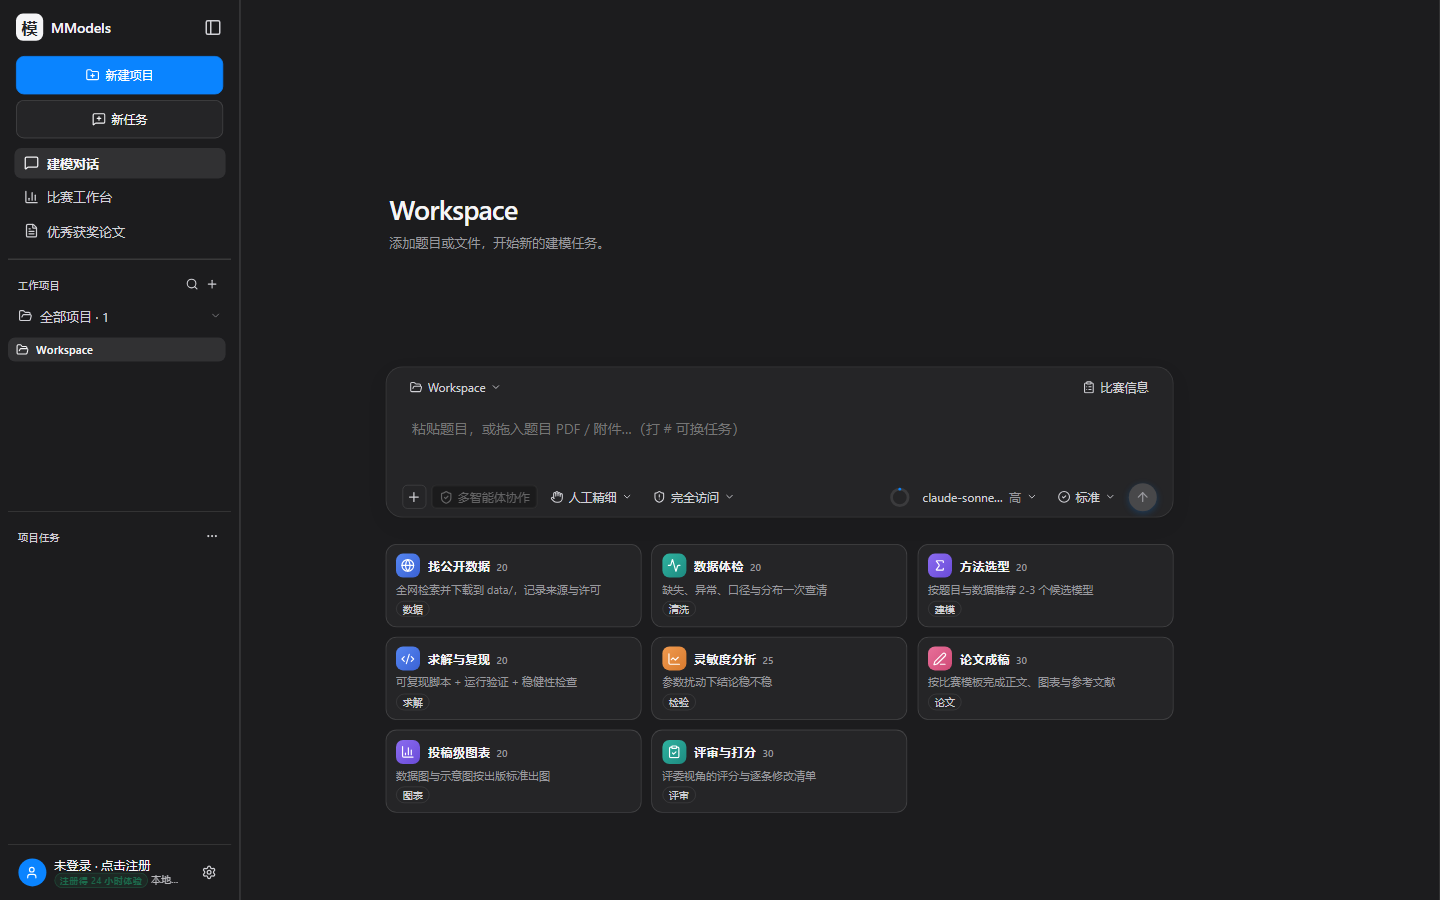
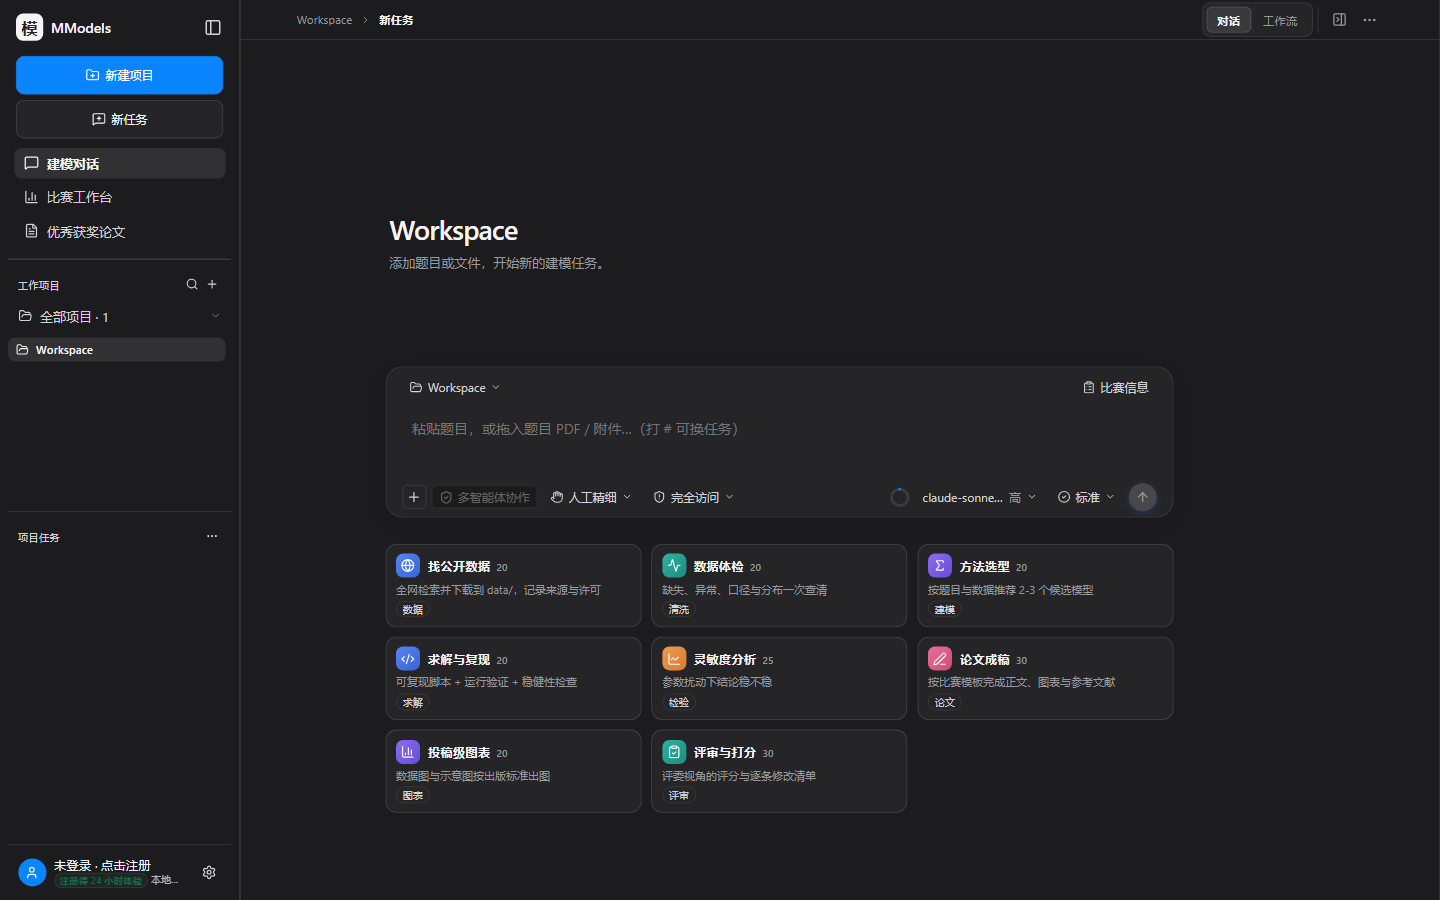
fix: restore chat switch and refine vip skill pricing

Changed region(s): [[0.25, 0.2178, 0.4062, 0.3111], [0.8125, 0.0, 0.9375, 0.0622], [0.2188, 0.0, 0.2812, 0.0311]]

diff --git a/src/renderer/src/pages/ChatPage.tsx b/src/renderer/src/pages/ChatPage.tsx
@@ -23,7 +23,7 @@
  */
 import { memo, useCallback, useEffect, useMemo, useRef, useState } from 'react';
 import type { ReactNode } from 'react';
-import type { ChatMessage, ContentBlock, InflightTurn, StreamEvent } from '@shared/types';
+import type { AccountStatusInfo, ChatMessage, ContentBlock, InflightTurn, StreamEvent } from '@shared/types';
 import { decideFollowUpAction, followUpHeadFor, readFollowUpBehavior, useApp } from '../store/app';
 import { latestTaskBlocks } from '../store/tasks';
 import {
@@ -37,7 +37,8 @@ import { DraftComposer } from '../components/DraftComposer';
 import { createComposerDraft } from '../store/composer-draft';
 import { withPendingMessage } from '../lib/optimistic-message';
 import { friendlyError } from '../lib/friendly-error';
-import { openMembership } from '../lib/membership-nav';
+import { onAccountStatus, openMembership } from '../lib/membership-nav';
+import { isPaidVip } from '../components/membership/membership-ui';
 import { ConfirmDialog } from '../components/ConfirmDialog';
 import { TaskProgressPanel } from '../components/TaskProgress';
 import { AgentCollaboration } from '../components/AgentCollaboration';
@@ -482,6 +483,25 @@ export function ChatPage({ actions, editorView = false }: { actions?: ReactNode;
   const activeSessionId = useApp((s) => s.activeSessionId);
   const newChatRequest = useApp((s) => s.newChatRequest);
   const settings = useApp((s) => s.settings);
+  const [membershipStatus, setMembershipStatus] = useState<AccountStatusInfo | null>(null);
+  const [membershipStatusLoaded, setMembershipStatusLoaded] = useState(false);
+  useEffect(() => {
+    let alive = true;
+    void window.mathmodel.account.status().then((next) => {
+      if (!alive) return;
+      setMembershipStatus(next);
+      setMembershipStatusLoaded(true);
+    }).catch(() => {
+      if (alive) setMembershipStatusLoaded(true);
+    });
+    const unsubscribe = onAccountStatus((next) => {
+      if (!alive || !next || typeof next !== 'object') return;
+      setMembershipStatus(next as AccountStatusInfo);
+      setMembershipStatusLoaded(true);
+    });
+    return () => { alive = false; unsubscribe(); };
+  }, []);
+  const homepagePricingIsPaidVip = membershipStatusLoaded && isPaidVip(membershipStatus);
   const createSession = useApp((s) => s.createSession);
   /** 快捷功能卡点击后在卡片下方展开的内联输入框内容（null = 收起）——2026-09-25 用户要求 */
   const [starterDraft, setStarterDraft] = useState<string | null>(null);
@@ -1414,7 +1434,9 @@ export function ChatPage({ actions, editorView = false }: { actions?: ReactNode;
                 </div>
 
                 <div className="starters" id="tour-examples">
-                  {STARTERS.map((s) => (
+                  {STARTERS.map((s) => {
+                    const starterCost = skillPointCost(s.skillId) ?? 10;
+                    return (
                     <button
                       key={s.title}
                       className={`starter starter-tint-${s.tint}${starterDraft !== null && starterDraft.startsWith(s.prompt.slice(0, 24)) ? ' is-active' : ''}`}
@@ -1428,11 +1450,11 @@ export function ChatPage({ actions, editorView = false }: { actions?: ReactNode;
                         <span className="starter-head-copy">
                           <span className="starter-title">{t(s.title)}</span>
                           <span
-                            className="starter-cost"
-                            title="选择后按该技能的单回合积分计费"
-                            aria-label={`${skillPointCost(s.skillId) ?? 10} 积分`}
+                            className={`starter-cost${homepagePricingIsPaidVip ? ' is-vip' : ''}`}
+                            title={homepagePricingIsPaidVip ? '卡密 VIP：该技能不限积分' : '选择后按该技能的单回合积分计费'}
+                            aria-label={homepagePricingIsPaidVip ? 'VIP无限' : `${starterCost} 积分`}
                           >
-                            {skillPointCost(s.skillId) ?? 10}
+                            {homepagePricingIsPaidVip ? 'VIP无限' : starterCost}
                           </span>
                         </span>
                       </span>
@@ -1445,7 +1467,8 @@ export function ChatPage({ actions, editorView = false }: { actions?: ReactNode;
                         ))}
                       </span>
                     </button>
-                  ))}
+                    );
+                  })}
                 </div>
 
                 {/* 点卡片 → 下方就地展开输入框（可改可发），比静默填进底部输入框更直观 */}

diff --git a/src/renderer/src/styles/pages.css b/src/renderer/src/styles/pages.css
@@ -2142,6 +2142,11 @@
   font-variant-numeric: tabular-nums;
   white-space: nowrap;
 }
+.starter-cost.is-vip {
+  color: #c49416;
+  font-weight: 650;
+  font-variant-numeric: normal;
+}
 
 /* ─────────────────────────────────────────────────────────────
  * 输入区（Composer）—— 遵循应用约定中的三层结构
@@ -2728,8 +2733,8 @@
   bottom: calc(100% + 6px);
   left: 8px;
   right: auto;
-  width: 300px;
-  max-height: 260px;
+  width: min(380px, calc(100vw - 24px));
+  max-height: min(340px, calc(100vh - 120px));
 }
 /* composer-box 默认 overflow:hidden（裁拖拽提示用），会把向上伸出的面板裁掉；
    面板存在时临时放开 —— Chromium 150 支持 :has() */
@@ -2737,8 +2742,8 @@
   overflow: visible;
 }
 .hash-pop .hash-pop-cmd {
-  flex: none;
-  max-width: 110px;
+  flex: 0 1 88px;
+  max-width: 88px;
   overflow: hidden;
   text-overflow: ellipsis;
   white-space: nowrap;
@@ -2755,20 +2760,40 @@
   gap: 1px;
 }
 .hash-pop .hash-pop-description {
-  max-width: 165px;
+  width: 100%;
+  max-width: none;
+  overflow: hidden;
+  text-overflow: ellipsis;
+  white-space: nowrap;
   color: var(--fg-muted);
   font-size: 10px;
   line-height: 1.25;
 }
 .hash-pop .hash-pop-cost {
-  flex: none;
-  border: 1px solid color-mix(in srgb, var(--accent) 28%, transparent);
-  border-radius: 999px;
-  padding: 1px 5px;
-  color: var(--accent);
+  flex: 0 0 auto;
+  min-width: 22px;
+  border: 0;
+  border-radius: 0;
+  padding: 0 2px;
+  color: var(--fg-muted);
   font-size: 10px;
   line-height: 1.35;
+  font-variant-numeric: tabular-nums;
+  text-align: center;
   white-space: nowrap;
+}
+.hash-pop .hash-pop-cost.is-vip {
+  min-width: 52px;
+  color: #c49416;
+  font-weight: 650;
+  font-variant-numeric: normal;
+}
+.hash-pop .cz-pop-item {
+  gap: 6px;
+  padding: 6px 8px;
+}
+.hash-pop .grow {
+  display: none;
 }
 
 /* ② 附件 chips */

diff --git a/src/renderer/src/styles/resizable-panels.css b/src/renderer/src/styles/resizable-panels.css
@@ -511,3 +511,57 @@
   .competition-shell .newchat { padding-block: 22px; }
   .competition-shell .msg-user .msg-body { max-width: 94%; }
 }
+
+/* ── 对话页顶部操作区回归保障 ────────────────────────────────
+ * 某些窗口宽度下，旧的 max-width/overflow 组合会把 ChatQuickBar 压成一条
+ * 空白竖带，连“对话 / 工作流”也看不见。这里把上下文条和操作组恢复成
+ * 明确的单行 flex 约束；窄屏仍由路径文本让位，而不是裁剪操作按钮。 */
+.competition-shell .chat-page-context {
+  position: relative;
+  display: flex;
+  align-items: center;
+  width: 100%;
+  box-sizing: border-box;
+  overflow: visible;
+}
+.competition-shell .chat-page-context-path {
+  flex: 1 1 auto;
+  min-width: 0;
+  overflow: hidden;
+}
+.competition-shell .chat-page-context-actions {
+  display: flex;
+  align-items: center;
+  justify-content: flex-end;
+  flex: 0 0 auto;
+  width: auto;
+  min-width: max-content;
+  max-width: none;
+  height: auto;
+  min-height: 0;
+  margin-left: auto;
+  overflow: visible;
+}
+.competition-shell .chat-page-context-actions > .chat-quickbar {
+  display: inline-flex;
+  align-items: center;
+  flex: 0 0 auto;
+  width: auto;
+  height: auto;
+  min-height: 0;
+  white-space: nowrap;
+  overflow: visible;
+}
+.competition-shell .chat-page-context-actions .chat-quickbar-view,
+.competition-shell .chat-page-context-actions .chat-quickbar-tools {
+  display: flex;
+  align-items: center;
+  flex: 0 0 auto;
+  width: auto;
+  height: auto;
+}
+.competition-shell .chat-page-context-actions .workflow-switch {
+  display: inline-flex;
+  visibility: visible;
+  opacity: 1;
+}

diff --git a/src/renderer/src/components/Composer.tsx b/src/renderer/src/components/Composer.tsx
@@ -560,6 +560,9 @@ export function Composer({
   const hashTaskDescription = (task: HashTask): string => task.description ?? tx(`composer.hashPalette.items.${task.id}Description`);
   const hashTaskCost = (task: HashTask): number | undefined =>
     task.skillId ? skillPointCost(task.skillId) : task.mode === 'chat' ? CHAT_POINT_COSTS.basic : undefined;
+  // 价格展示只服务于提示，不参与实际扣费；服务端仍会按技能白名单重新计算。
+  // 只有已兑换卡密的 VIP 才显示“VIP无限”，24 小时试用和免费账号仍显示小额数字。
+  const hashPricingIsPaidVip = membershipStatusLoaded && isPaidVip(membershipStatus);
   /** 选中一项：替换 `#token` 为插入文本；工作流项带上中文名让输入框可见（2026-09-26 用户要求） */
   const applyHashTask = (task: HashTask): void => {
     if (!hash) return;
@@ -1446,7 +1449,13 @@ export function Composer({
               </span>
               <span className="grow" />
               {hashTaskCost(it) ? (
-                <span className="hash-pop-cost">{hashTaskCost(it)} 积分 / 回合</span>
+                <span
+                  className={`hash-pop-cost${hashPricingIsPaidVip ? ' is-vip' : ''}`}
+                  title={hashPricingIsPaidVip ? '卡密 VIP：该技能不限积分' : '本技能单回合积分成本'}
+                  aria-label={hashPricingIsPaidVip ? 'VIP无限' : `${hashTaskCost(it)} 积分`}
+                >
+                  {hashPricingIsPaidVip ? 'VIP无限' : hashTaskCost(it)}
+                </span>
               ) : null}
               {it.insert ? (
                 <span className="cz-pop-hint hash-pop-cmd">{it.insert.trim()}</span>

diff --git a/src/renderer/src/pages/ChatPage.starters.test.ts b/src/renderer/src/pages/ChatPage.starters.test.ts
@@ -37,8 +37,17 @@ describe('空会话快捷卡片计费', () => {
 
   it('卡片只显示积分数字，完整说明放在提示信息中', () => {
     const source = readFileSync(resolve(process.cwd(), 'src/renderer/src/pages/ChatPage.tsx'), 'utf8');
-    expect(source).toContain('className="starter-cost"');
-    expect(source).toContain('aria-label={`${skillPointCost(s.skillId) ?? 10} 积分`}');
+    expect(source).toContain("className={`starter-cost${homepagePricingIsPaidVip ? ' is-vip' : ''}`}");
+    expect(source).toContain("aria-label={homepagePricingIsPaidVip ? 'VIP无限' : `${starterCost} 积分`}");
+    expect(source).toContain("homepagePricingIsPaidVip ? 'VIP无限' : starterCost");
     expect(source).not.toContain('积分/回合');
+  });
+
+  it('对话页右上角视图切换保留可见的单行操作区', () => {
+    const css = readFileSync(resolve(process.cwd(), 'src/renderer/src/styles/resizable-panels.css'), 'utf8');
+    const guard = css.slice(css.lastIndexOf('对话页顶部操作区回归保障'));
+    expect(guard).toContain('.competition-shell .chat-page-context-actions');
+    expect(guard).toContain('overflow: visible');
+    expect(guard).toContain('.competition-shell .chat-page-context-actions .workflow-switch');
   });
 });

diff --git a/src/renderer/src/components/Composer-decision-mode.test.tsx b/src/renderer/src/components/Composer-decision-mode.test.tsx
@@ -12,6 +12,8 @@
  * 菜单内部留给运行测试验证。
  */
 import { describe, expect, it } from 'vitest';
+import { readFileSync } from 'node:fs';
+import { resolve } from 'node:path';
 import { renderToStaticMarkup } from 'react-dom/server';
 import { Composer } from './Composer';
 
@@ -43,5 +45,15 @@ describe('Composer 决策模式与协作开关（静态冒烟）', () => {
     const html = renderComposer();
     // 默认 decisionMode='manual'，不该出现先规划的运行横幅
     expect(html).not.toContain('先给出方案，不会改文件');
+  });
+
+  it('# 技能面板的价格列不再挤压说明，卡密 VIP 显示 VIP无限', () => {
+    const source = readFileSync(resolve(process.cwd(), 'src/renderer/src/components/Composer.tsx'), 'utf8');
+    const css = readFileSync(resolve(process.cwd(), 'src/renderer/src/styles/pages.css'), 'utf8');
+    expect(source).toContain("className={`hash-pop-cost${hashPricingIsPaidVip ? ' is-vip' : ''}`}");
+    expect(source).toContain("hashPricingIsPaidVip ? 'VIP无限' : hashTaskCost(it)");
+    expect(source).not.toContain('hashTaskCost(it)} 积分 / 回合');
+    expect(css).toContain('.hash-pop .grow {');
+    expect(css).toContain('.hash-pop .hash-pop-cost.is-vip');
   });
 });

diff --git a/src/renderer/src/styles/competition-studio.css b/src/renderer/src/styles/competition-studio.css
@@ -172,6 +172,7 @@
 .competition-shell .starter-icon { width: 24px; height: 24px; border-radius: 7px; margin-bottom: 0; }
 .competition-shell .starter .starter-title { display: inline; margin: 0; font-size: 12.5px; line-height: 1.35; }
 .competition-shell .starter .starter-cost { font-size: 10px; line-height: 1.3; color: var(--fg-muted); font-weight: 500; }
+.competition-shell .starter .starter-cost.is-vip { color: #c49416; font-weight: 650; font-variant-numeric: normal; }
 .competition-shell .starter .starter-desc { margin-top: 4px; font-size: 11px; line-height: 1.35; white-space: nowrap; overflow: hidden; text-overflow: ellipsis; }
 .competition-shell .starter .starter-tags { margin-top: 4px; gap: 4px; }
 .competition-shell .starter .starter-tag { font-size: 10px; line-height: 1.3; padding: 1px 6px; }

diff --git a/plans/00-协作主文档-所有AI从这里开始.md b/plans/00-协作主文档-所有AI从这里开始.md
@@ -195,6 +195,13 @@
 - **验证与发布**：`npm run test:unit`（78 文件 / 1066 测试）、`npm run typecheck`、`node --check server/license-server.cjs`、`node scripts/membership-smoke.cjs`、`npm run audit:wording`、`git diff --check` 全部通过；加固发布的攻击面 3/3、启动回归和真实应用回归 45/45 通过。
[1 lines of base64/hex data omitted]
 
+### 2026-09-30 · v0.1.27 对话入口回归修订
+- **`#` 技能浮层计费列修复**：移除“积分 / 回合”胶囊，改为独立窄数字列；说明与命令使用省略布局，不再互相覆盖。已兑换卡密的有效 VIP 在浮层中显示金色 `VIP无限`，24 小时试用和免费账号仍显示实际小数字。首页八张快捷技能卡同步同一会员状态展示。
+- **右上角视图切换恢复**：对话页的“对话 / 工作流”切换、文件面板和更多按钮恢复为明确的单行 flex 操作区；去除旧 `max-width + overflow:hidden` 导致的空白竖带，在窄窗口也优先保留视图切换。
+- **回归护栏**：新增 `#` 计费展示与 VIP 文案静态测试；快捷卡测试改为覆盖 VIP/普通两种展示；截图 `docs/assets/screenshots/site/workspace-chat.png` 已由当前加固产物重新生成，右上角切换可见。
+- **验证**：`npm run test:unit`（78 文件 / 1068 测试，含本轮新增护栏）、`npm run typecheck`、`node --check server/license-server.cjs`、`node scripts/membership-smoke.cjs`、`npm run audit:wording`、`git diff --check`；加固发布攻击面 3/3、正常启动回归通过、真实应用回归 45/45。
[1 lines of base64/hex data omitted]
+
 ---
 
 ## 七、环境坑速查（精简；全文见完整版报告七）
